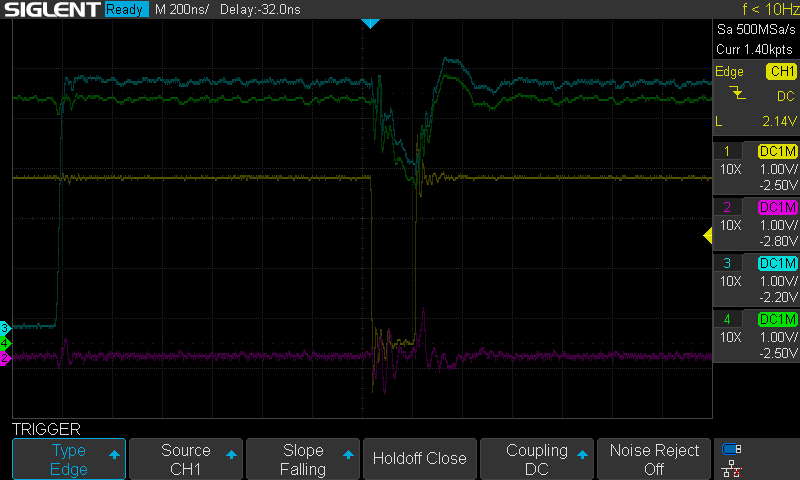
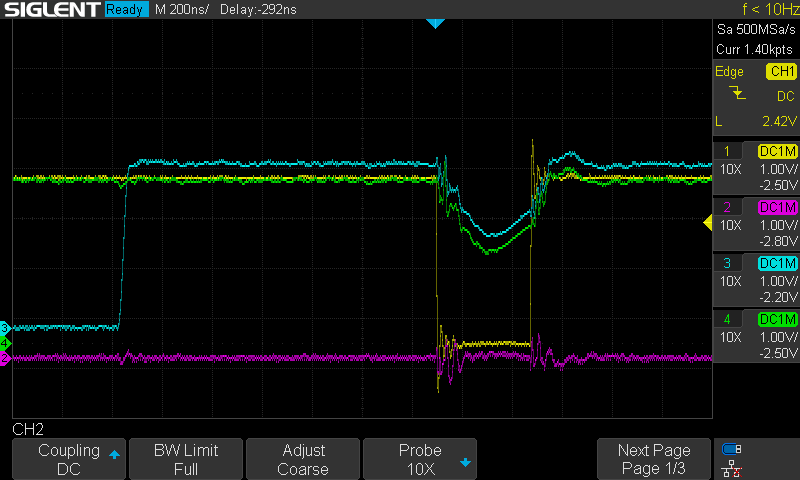
Switched to 3.3V power supply

diff --git a/README.md b/README.md
@@ -52,7 +52,8 @@ your target, but still achieve a succesful glitch.
 I managed to glitch a loop running on a PIC16F1936 (see MPLAB project with code
 in `target_src`) with the following setup:
 ```
-glitch voltage: 3.7V
+power supply: 3.3V
+glitch voltage: 2.25V
 glitch width: 20 cycles
 ```
 
@@ -62,11 +63,12 @@ a succesful glitch.
 
 ### Scope captures
 In the captures below you can see a succesfull glitch.
-- Channel 1 (yellow) is the input to the A, B and C pin of the MAX4619
+- Channel 1 (yellow) is the input to the A, B and C pins of the MAX4619
 - Channel 2 (magenta) is the PIC pin that will be raised when the glitch fails
-(not shown here)
+(event not shown here)
 - Channel 3 (cyan) is the PIC pin that will be raised when the loop starts
 - Channel 4 (green) is the power supply to the PIC
+
 ![Succesful glitch](img/glitch_success.png)
 ![Successful glitch zoomed](img/glitch_success_closeup.png)
 
